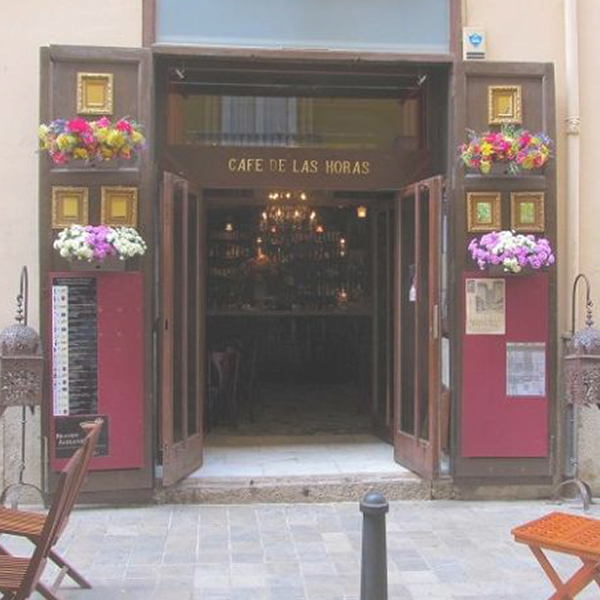
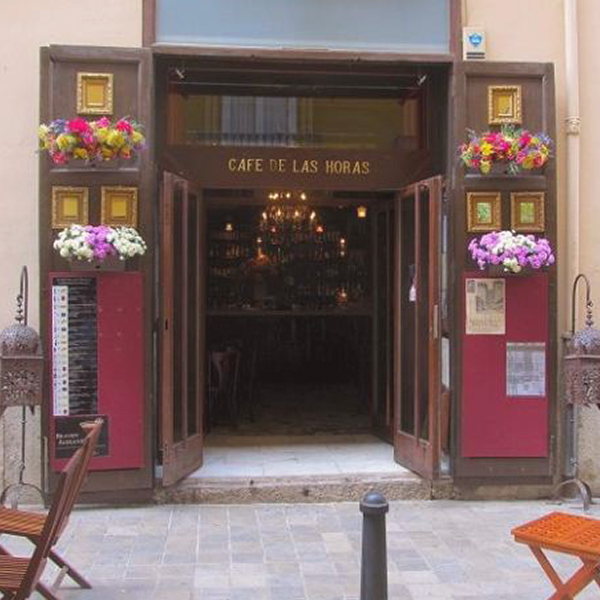
Imagenes

diff --git a/enlaces/carta/carta.html b/enlaces/carta/carta.html
@@ -8,25 +8,41 @@
     <title>La Carta</title>
 </head>
 <body>
-<header>
-    <h2>La Carta</h2>
-    <nav>
-        <ul><a href="../../index.html">Home |</a></ul>
-        <ul><a href="carta.html">La Carta |</a></ul>
-        <ul><a href="../cafe/cafe.html">El Café |</a></ul>
-        <ul><a href="#">Contacto</a></ul>
+    <header>
+        <h2>La Carta</h2>
+        <nav>
+            <ul>
+                <li><a href="../../index.html">Home |</a></li>
+                <li><a href="carta.html">La Carta |</a></li>
+                <li><a href="../cafe/cafe.html">El Café |</a></li>
+                <li><a href="#">Contacto</a></li>
+            </ul>
+            
     </nav>
     
 </header>
     <main>
-        <p>EL PANIER CON UN SURTIDO DE BOLLERÍA MANTEQUILLA Y MERMELADA 3,30€</p>
-        <hr>
-        <p>TARTINES A LA FRANCESA; PAN FRESCO CON MANTEQUILLA Y MERMELADA 2€</p>
-        <hr>
-        <p>NAPOLITANA 1.20€</p>
-        <hr>
-        <p>CROISSANT DE MANTEQUILLA 1€</p>
-        <hr>
+        <section>
+            <article>
+                <p>EL PANIER CON UN SURTIDO DE BOLLERÍA MANTEQUILLA Y MERMELADA 3,30€</p>
+                <hr>
+                <p>TARTINES A LA FRANCESA; PAN FRESCO CON MANTEQUILLA Y MERMELADA 2€</p>
+                <hr>
+                <p>NAPOLITANA 1.20€</p>
+                <hr>
+                <p>CROISSANT DE MANTEQUILLA 1€</p>
+                <hr>
+            </article>
+        </section>
+        
+
+        <section class="imagenes">
+                <article>
+                        <img src="img/imagen1.jpg" title="Café Las Horas interior" alt="Café Las Horas interior" width="25%">
+                        <img src="img/imagen2.jpg" title="Café Las Horas interior" alt="Café Las Horas interior" width="25%">
+                        <img src="img/imagen3.jpg" title="Café Las Horas interior" alt="Café Las Horas interior" width="25%">
+                </article>
+            </section>
     </main>
 <footer>
         <adress>

diff --git a/enlaces/cafe/cafe.html b/enlaces/cafe/cafe.html
@@ -31,9 +31,9 @@
 
             <section class="imagenes">
                 <article>
-                        <img src="img/img1.jpg" title="Café Las Horas interior" alt="Café Las Horas interior" width="25%">
                         <img src="img/img2.jpg" title="Café Las Horas interior" alt="Café Las Horas interior" width="25%">
                         <img src="img/img3.jpg" title="Café Las Horas interior" alt="Café Las Horas interior" width="25%">
+                        <img src="img/img1.jpg" title="Café Las Horas interior" alt="Café Las Horas interior" width="25%">
                 </article>
             </section>
         </main>

diff --git a/enlaces/carta/css/style.css b/enlaces/carta/css/style.css
@@ -13,7 +13,7 @@ main hr {
     padding: 0px;
 }
 
-ul{
+li{
     float: left;
 }
 a{
@@ -26,4 +26,13 @@ nav{
 
 main{
     padding-bottom: 30px;;
+}
+
+.imagenes {
+    text-align: center;
+    padding: 60px 0px 60px 0px;
+}
+
+img{
+    margin: 0px 5px;
 }

diff --git a/enlaces/cafe/css/style.css b/enlaces/cafe/css/style.css
@@ -36,3 +36,7 @@ main{
     text-align: center;
     padding: 60px 0px 60px 0px;
 }
+
+img{
+    margin: 0px 5px;
+}
